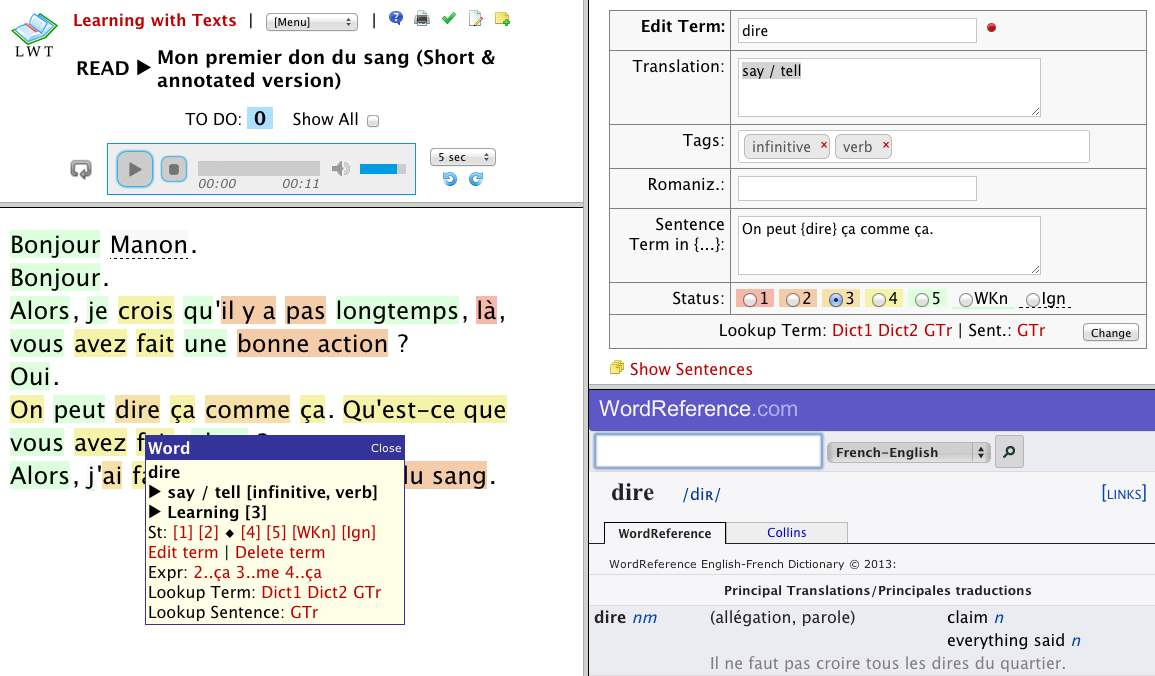
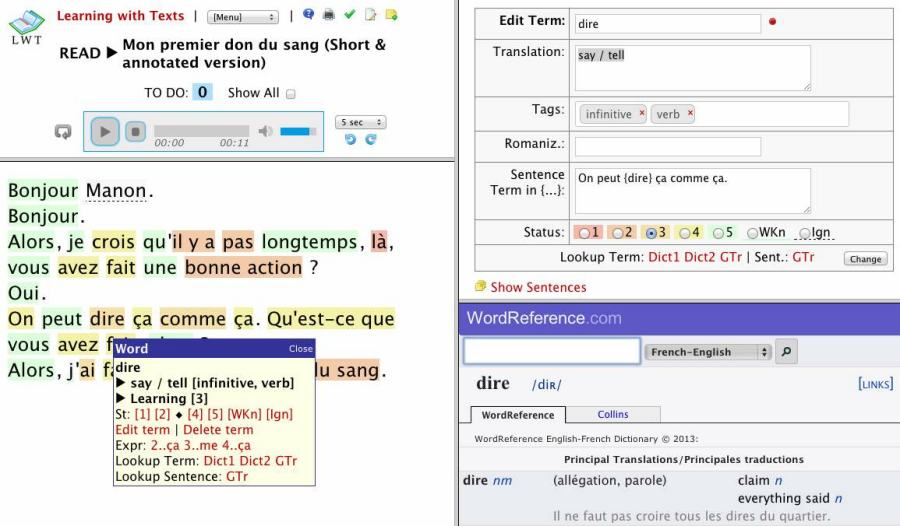
Version 1.5.0 (21-Apr-2013 12:07)

diff --git a/info.htm b/info.htm
@@ -450,7 +450,7 @@ $(document).ready( function() {
           <li>You may upload words and expressions into LWT (from LingQ or other sources, CSV/TSV) - they are immediately available in all texts!
           </li>
           
-          <li><a name="il"></a><b>New since Version 1.5.0:</b> Create and edit an annotated text version (as <a target="_blank" href="http://en.wikipedia.org/wiki/Interlinear_gloss">interlinear text</a>) for online or offline learning - similar to the material created by <a target="_blank" href="http://en.assimil.com/">Assimil</a> or proposed by <a target="_blank" href="http://web.archive.org/web/20070223080453/http://195.149.74.241/BIRKENBIHL/PDF/MethodEnglish.pdf">V. F. Birkenbihl</a>. Language learning via interlinear texts is quite old as you can see in <a target="_blank" href="http://www.youtube.com/watch?v=XnEKnezLXJg">this YouTube video</a>. While listening to the audio, first read the blue annotations in your native language. Later you read the foreign language text below. Repeat this often. If you fully understand the whole text, you listen to the text passively. Read more <a href="#il2">here</a>.
+          <li><b>New since Version 1.5.0:</b> Create and edit an improved annotated text version (as <a target="_blank" href="http://en.wikipedia.org/wiki/Interlinear_gloss">interlinear text</a>) for online or offline learning. Read more <a href="#il">here</a>.
           </li>
           
           <li>The application is 100 % free, open source, and in the Public Domain. Do with it what you like!
@@ -1399,27 +1399,33 @@ Another example: The URI to query "travailler" in sansagent is "http://dictionar
             <img class="grayborder" src="img/21.jpg" alt="Image" />
             <br />
             <br />
-           	<a name="il2"></a><b>How to create, edit, and use an "Improved Annotated Text":</b>
+           	<a name="il"></a><b>How to create, edit, and use an <i>Improved Annotated Text</i>:</b>
+            <br /><br />
+            <b>Motivation:</b> Annotated texts (as interlinear text) are used for language learning for a long time. One example are the word-by-word translations in <a target="_blank" href="http://en.assimil.com/">Assimil</a> courses. The German <a target="_blank" href="http://web.archive.org/web/20070223080453/http://195.149.74.241/BIRKENBIHL/PDF/MethodEnglish.pdf">V. F. Birkenbihl</a> proposes the creation of interlinear word-by-word translations (she calls it "decoding") in foreign language learning. Learning via interlinear texts is quite old as you can see in <a target="_blank" href="http://www.youtube.com/watch?v=XnEKnezLXJg">this YouTube video</a>. 
+            <br /><br />
+            LWT's old "Print Screen" offers annotations, but it displays ALL translations. The <i>Improved Annotated Text</i> feature enables you to select the best translation for every word in the text. As a result, you create an L1 word-by-word translation that is displayed above the L2 text. This interlinear text is better suited for language study, especially for beginners.
+            <br /><br />
+            <b>Method:</b> While listening to the audio, first follow the blue annotations in your native language while listening and understanding. Later, after understanding the text fully, you read the foreign language text alone. Repeat this often. After these steps, you listen to the text passively or do shadowing. 
             <br /><br />
             On the Print Screen, click on "Create" an Improved Annotated Text. The system creates a default annotated text. 
             <br /><br />
-            Edit Mode:
+            <b>Edit Mode:</b>
             <br /><br />
             <img class="grayborder" src="img/28.jpg" alt="Image" />
             <br /><br />
-            Within the "Improved Annotated Text - Edit Mode", you can select the best term translation by clicking on one of the radio buttons. To be able to do this, multiple translations must be delimited by one of the delimiters specified in the LWT Settings (currently: /;|). You can also type in a new translation into the text box at the end (this does not change your saved term translation), or you may change your term by clicking on the yellow icon or add a translation by clicking on the green "+" icon (this does change your saved term translation), and select it afterwards. It's not possible to create new terms here - please do this in the read screen. Changing the language settings (e.g. the word characters) may have the effect that you have to start from scratch. So, the best time for the creation of an improved annotated text (an interlinear text for reading or printing) is after you have read the text completely and created all terms and expressions.
+            Within the "Improved Annotated Text - Edit Mode", you can select the best term translation by clicking on one of the radio buttons. To be able to do this, multiple translations must be delimited by one of the delimiters specified in the LWT Settings (currently: /;|). You can also type in a new translation into the text box at the end (this does not change your saved term translation), or you may change your term by clicking on the yellow icon or add a translation by clicking on the green "+" icon (this does change your saved term translation), and select it afterwards. The "Star" icon indicated that you want the term itself as annotation. Important: It's not possible to create new terms here - please do this in the "Read text" screen. Changing the language settings (e.g. the word characters) may have the effect that you have to start from scratch. The best time for the creation of an improved annotated text is after you have read the text completely and created all terms and expressions in the "Read text" screen.
             <br /><br />
 						<b>Warning:</b> If you change the text, you will lose the saved improved annotated text! 
 						<br />
 						All changes in the Edit screen are saved automatically in the background!
             <br /><br />
-            To leave the Edit mode, click on "Display/Print" Mode. You may then print or display (with audio) the text, and work with text online or offline.
+            To leave the Edit mode, click on "Display/Print Mode". You may then print or display (with audio) the text, and work with the text online or offline.
             <br /><br />
-            Print Mode:
+            <b>Print Mode:</b>
             <br /><br />
             <img class="grayborder" src="img/27.jpg" alt="Image" />
             <br /><br />
-            Display Mode (with audio player) in a separate window:
+            <b>Display Mode</b> (with audio player) in a separate window. Clicking the lightbulb icon hides/shows the blue annotations. You may also click on/above a term to show or hide an individual annotation.
             <br /><br />
             <img class="grayborder" src="img/29.jpg" alt="Image" />
             <br /><br />
@@ -1541,10 +1547,10 @@ Another example: The URI to query "travailler" in sansagent is "http://dictionar
           </li>
 
           <li>
-            <b>Backup/Restore LWT Database</b>
+            <b>Backup/Restore/Empty Database</b>
             <br />
             <br />
-            This screen offers a possibility to save and restore the LWT database. This makes it easy to try out new things or just to make regular backups. "Restore" only accepts files that have been created with the "Backup" function above. Other SQL files, e.g. the SQL files in the installation package, will not be accepted here.
+            This screen offers a possibility to save, restore or empty the LWT database. This makes it easy to try out new things or just to make regular backups. "Restore" only accepts files that have been created with the "Backup" function above. "Empty Database" deletes the data of all tables (except the settings), and you can start from scratch afterwards. Be careful: you may lose valuable data!
             <br />
             <br />
             <img class="grayborder" src="img/18.jpg" alt="Image" />
@@ -2260,9 +2266,13 @@ with audioplayer", if needed.</li>
         <ul>
         
         	<li>1.5.0 (April 27 2013): 
-        	New Feature: From the Print Screen, you are now able to create and edit an interlinear annotated text for online or offline study (Reasons: Please read <a href="#il">this</a>). To do this in an easy way, different translations of a term must be delimited by one character of the "List of characters that delimit different translations" in the Settings (default: /;|). While editing an "Improved Annotated Text", you select - via clicking on a radio button - one of these translations, or you input your own. With all this information, a better interlinear annotated text will be created that can be used for printing and offline learning, or for online study while listening to the audio. Read more <a href="#il">here</a> or <a href="#il2">here</a>. 
+        	New Feature: Create and edit an improved annotated text version (as <a target="_blank" href="http://en.wikipedia.org/wiki/Interlinear_gloss">interlinear text</a>) for online or offline learning. Read more <a href="#il">here</a>. 
         	<br />
         	In-Place-editing of translations and romanizations now possible within the terms table.
+        	<br />
+        	You may now empty (= delete the contents of) the LWT database in the "Backup/Restore/Empty Database" screen. 
+        	<br />
+        	Some minor improvements.
         	<br />
         	Documentation, screenshots and demo database updated. 
         	 <br /><br />

diff --git a/backup_restore.php b/backup_restore.php
@@ -14,7 +14,8 @@ Developed by J. P. in 2011, 2012, 2013.
 Call: backup_restore.php?....
       ... restore=xxx ... do restore 
       ... backup=xxx ... do backup 
-Backup/Restore LWT Database
+      ... empty=xxx ... do truncate
+Backup/Restore/Empty LWT Database
 ***************************************************************/
 
 include "connect.inc.php";
@@ -115,13 +116,32 @@ elseif (isset($_REQUEST['backup'])) {
 	echo gzencode($out,9);
 	exit();
 }
+
+// EMPTY
+
+elseif (isset($_REQUEST['empty'])) {
+	$dummy = runsql('TRUNCATE archivedtexts','');
+	$dummy = runsql('TRUNCATE archtexttags','');
+	$dummy = runsql('TRUNCATE languages','');
+	$dummy = runsql('TRUNCATE sentences','');
+	$dummy = runsql('TRUNCATE tags','');
+	$dummy = runsql('TRUNCATE tags2','');
+	$dummy = runsql('TRUNCATE textitems','');
+	$dummy = runsql('TRUNCATE texts','');
+	$dummy = runsql('TRUNCATE texttags','');
+	$dummy = runsql('TRUNCATE words','');
+	$dummy = runsql('TRUNCATE wordtags', '');
+	$dummy = runsql('DELETE FROM settings where StKey = \'currenttext\'', '');
+	optimizedb();
+	$message = "Database content has been deleted (but settings have been kept)";
+}
 	
-pagestart('Backup/Restore LWT Database',true);
+pagestart('Backup/Restore/Empty Database',true);
 
 echo error_message_with_hide($message,1);
 
 ?>
-<form enctype="multipart/form-data" action="<?php echo $_SERVER['PHP_SELF']; ?>" method="post">
+<form enctype="multipart/form-data" action="<?php echo $_SERVER['PHP_SELF']; ?>" method="post" onsubmit="return confirm('Are you sure?');">
 <table class="tab1" cellspacing="0" cellpadding="5">
 <tr>
 <th class="th1 center">Backup</th>
@@ -138,7 +158,8 @@ The database <i><?php echo tohtml($dbname); ?></i> will be exported to a gzipped
 The database <i><?php echo tohtml($dbname); ?></i> will be replaced by the data in the specified backup file<br />(gzipped or normal SQL file, created above).<br /><b>Please be careful - the existent database will be overwritten!</b> <br />Important: If the backup file is too large, the restore may not be possible.<br />Upload limits (in bytes): <b>post_max_size = <?php echo ini_get('post_max_size'); ?> / upload_max_filesize = <?php echo ini_get('upload_max_filesize'); ?></b><br />
 If needed, increase in "<?php echo tohtml(php_ini_loaded_file()); ?>" and restart server.</p>
 <p><input name="thefile" type="file" /></p>
-<p class="right">&nbsp;<br /><input type="submit" name="restore" value="Restore from LWT Backup" /></p>
+<p class="right">&nbsp;<br /><span class="red2">YOU MAY LOSE DATA - BE CAREFUL: &nbsp; &nbsp; &nbsp;</span> 
+<input type="submit" name="restore" value="Restore from LWT Backup" /></p>
 </td>
 </tr>
 <tr>
@@ -146,8 +167,17 @@ If needed, increase in "<?php echo tohtml(php_ini_loaded_file()); ?>" and restar
 <td class="td1">
 <p class="smallgray2">
 You may also replace the database <i><?php echo tohtml($dbname); ?></i> by the LWT demo database.</p>
-<p class="right">&nbsp;<br />
+<p class="right">&nbsp;<br /><span class="red2">YOU MAY LOSE DATA - BE CAREFUL: &nbsp; &nbsp; &nbsp;</span> 
 <input type="button" value="Install LWT Demo Database" onclick="location.href='install_demo.php';" />
+</td>
+</tr>
+<tr>
+<th class="th1 center">Empty<br />Database</th>
+<td class="td1">
+<p class="smallgray2">
+Empty (= delete the contents of) all tables - except the Settings - of your database <i><?php echo tohtml($dbname); ?></i>.</p>
+<p class="right">&nbsp;<br /><span class="red2">YOU MAY LOSE DATA - BE CAREFUL: &nbsp; &nbsp; &nbsp;</span>
+<input type="submit" name="empty" value="Empty LWT Database" />
 </td>
 </tr>
 <tr>

diff --git a/display_impr_text_text.php b/display_impr_text_text.php
@@ -54,11 +54,23 @@ pagestart_nobody('Display');
 //<![CDATA[
 
 function click_ann() {
-	$(this).css('color','#006699');
+	if($(this).css('color') == 'rgb(255, 255, 255)') 
+		$(this).css('color','#006699');
+	else
+		$(this).css('color','white');
+}
+
+function click_text() {
+	var elem = $(this).closest('ruby').find('rt').find('span.anntransruby2');
+	if(elem.css('color') == 'rgb(255, 255, 255)') 
+		elem.css('color','#006699');
+	else
+		elem.css('color','white');
 }
 
 $(document).ready(function(){
-  $(".anntransruby2").click(click_ann);
+  $('.anntransruby2').click(click_ann);
+  $('.anntermruby').click(click_text);
 });
 //]]>
 </script>
@@ -77,12 +89,12 @@ foreach ($items as $item) {
 		$trans = '';
 		if (count($vals) > 3) $trans = $vals[3];
 		if ($trans == '*') $trans = $vals[1];
-		echo ' <ruby><rb><span class="anntermruby">' . tohtml($vals[1]) . '</span></rb><rt><span class=" click anntransruby2">' . tohtml($trans) . '</span></rt></ruby> ';
+		echo ' <ruby><rb><span class="click anntermruby" style="color:black;">' . tohtml($vals[1]) . '</span></rb><rt><span class=" click anntransruby2">' . tohtml($trans) . '</span></rt></ruby> ';
 	} else {
 		echo str_replace(
 		"¶",
 		'</p><p style="' . ($removeSpaces ? 'word-break:break-all;' : '') . 'font-size:' . $textsize . '%;line-height: 1.3; margin-bottom: 10px;">',
-		" " . tohtml($vals[1]) . " ");
+		" " . tohtml($vals[1]));
 	}
 }
 

diff --git a/display_impr_text_header.php b/display_impr_text_header.php
@@ -37,7 +37,7 @@ saveSetting('currenttext',$textid);
 
 pagestart_nobody(tohtml($title));
 echo '<h2 class="center" style="margin:5px;margin-top:-10px;">';
-echo '<img id="hide" style="padding-right:30px; margin-bottom:-5px;" class="click" src="icn/light-bulb.png" title="Hide Annotation" alt="Hide Annotation" onclick="{$(\'#show\').show(); $(\'#hide\').hide(); $(\'.anntransruby2\',window.parent.frames[\'text\'].document).css(\'color\',\'#eaeaea\');}" />';
+echo '<img id="hide" style="padding-right:30px; margin-bottom:-5px;" class="click" src="icn/light-bulb.png" title="Hide Annotation" alt="Hide Annotation" onclick="{$(\'#show\').show(); $(\'#hide\').hide(); $(\'.anntransruby2\',window.parent.frames[\'text\'].document).css(\'color\',\'white\');}" />';
 echo '<img id="show" style="display:none; padding-right:30px; margin-bottom:-5px;" class="click" src="icn/light-bulb-off.png" title="Show Annotation" alt="Show Annotation" onclick="{$(\'#show\').hide(); $(\'#hide\').show(); $(\'.anntransruby2\',window.parent.frames[\'text\'].document).css(\'color\',\'#006699\');}" />';
 echo tohtml($title);
 echo '<img style="padding-left:30px; margin-bottom:-5px;" class="click" src="icn/cross-big.png" title="Close Window" alt="Close Window" onclick="top.close();" /></h2>';

diff --git a/print_impr_text.php b/print_impr_text.php
@@ -83,7 +83,7 @@ echo '</h4><h3>ANN.TEXT&nbsp;▶ ' . tohtml($title) . '</h3>';
 echo "<p id=\"printoptions\"><b>Improved Annotated Text";
 
 if($editmode) {
-	echo " (Edit Mode)</b> <img src=\"icn/question-frame.png\" title=\"Help\" alt=\"Help\" class=\"click\" onclick=\"window.open('info.htm#il2');\" /><br /><input type=\"button\" value=\"Display/Print Mode\" onclick=\"location.href='print_impr_text.php?text=" . $textid . "';\" />\n";
+	echo " (Edit Mode)</b> <img src=\"icn/question-frame.png\" title=\"Help\" alt=\"Help\" class=\"click\" onclick=\"window.open('info.htm#il');\" /><br /><input type=\"button\" value=\"Display/Print Mode\" onclick=\"location.href='print_impr_text.php?text=" . $textid . "';\" />\n";
 } else {
 	echo " (Display/Print Mode)</b><br /><input type=\"button\" value=\"Edit\" onclick=\"location.href='print_impr_text.php?edit=1&amp;text=" . $textid . "';\" />";
 	echo " &nbsp; | &nbsp; ";

diff --git a/index.php b/index.php
@@ -91,7 +91,7 @@ if (! areCookiesEnabled()) document.write('<p class="red">*** Cookies are not en
 	<br /><br /></li>
 <li><a href="check_text.php">Check a Text</a></li>
 <li><a href="upload_words.php">Import Terms</a></li>
-<li><a href="backup_restore.php">Backup/Restore LWT Database</a>
+<li><a href="backup_restore.php">Backup/Restore/Empty Database</a>
 	<br /><br /></li>
 <li><a href="settings.php">Settings/Preferences</a>
 	<br /><br /></li>
